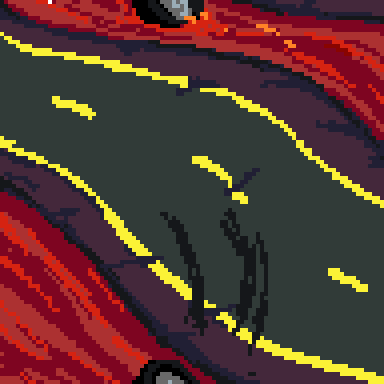
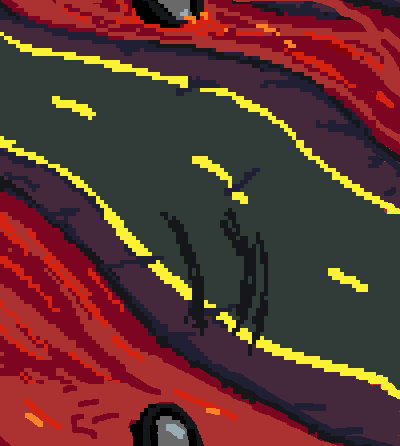
final

diff --git a/LvlOne.js b/LvlOne.js
@@ -83,13 +83,27 @@ class LvlOne extends Phaser.Scene{
         this.enemiesR.add(this.carro5);
         this.enemiesR.add(this.carro6);
         this.enemiesR.add(this.carro7);
-            /////########### fim inimigos
+        /////########### fim inimigos
 
-        this.player = this.physics.add.image(config.width/2, config.height - 38, "player");
+        //////####### jogador
+        this.player = this.physics.add.sprite(config.width/2, config.height - 38, "player");
         this.player.setOrigin(0.5,1);
-
         this.cursorKeys = this.input.keyboard.createCursorKeys();
         this.player.setCollideWorldBounds(true);
+            ////####### animaçao jogador
+            this.anims.create({
+                key:"pato_para",
+                frames: this.anims.generateFrameNumbers("player", { start: 0, end: 1 }),
+                frameRate: 2,
+                repeat: -1
+            });
+            this.anims.create({
+                key:"pato_morte",
+                frames: this.anims.generateFrameNumbers("player", { start: 4, end: 6 }),
+                frameRate: 2,
+                repeat: -1
+            });
+        this.player.play("pato_para");
 
         this.physics.add.overlap([this.enemies, this.enemiesR], this.player, function(enemies, player){
             this.player.disableBody(false,true);
@@ -163,7 +177,6 @@ class LvlOne extends Phaser.Scene{
 
     //######### movimento do jogador
     movePlayerManager(){
-
         this.checkGanhar();
         // movimento com delay de 250ms
         if(this.input.keyboard.checkDown(this.cursorKeys.up, 250)){

diff --git a/game.js b/game.js
@@ -3,18 +3,20 @@ var gameSettings = {
 	vidas: 3,
 	areaGanhar: 100,
 	playerSpeed: 38,
-	lanes: [154, (154+40*2), (154+38*4),(154+38*6) ],//, 200, 300, 400, 500],
-	lanes2: [(154+40), (154+38*3), (154+38*5)]//[150, 250, 350, 450]
+	lanes: [154, (154+40*2), (154+38*4),(154+38*6) ],
+	lanesR: [(154+40), (154+38*3), (154+38*5)]
 }
-
+///########funções para escolher estradinha
 function enemyRndPos(){
 	let randomY = Phaser.Math.RND.pick(gameSettings.lanes);
 	return randomY;
 }
 function enemyRndPosR(){
-	let randomY = Phaser.Math.RND.pick(gameSettings.lanes2);
+	let randomY = Phaser.Math.RND.pick(gameSettings.lanesR);
 	return randomY;
 }
+
+///########config parametros do phaser
 var config = {
 	width: 512,
 	height: 512,
@@ -29,7 +31,7 @@ var config = {
 	}
 }
 
-
+///##### inicio
 window.onload = function (){
 	var game = new Phaser.Game(config);
 }

diff --git a/Load.js b/Load.js
@@ -5,11 +5,13 @@ class Load extends Phaser.Scene{
 
     ///////######## carrega imagens e spritesheets
     preload(){
+        /////####### imagens de inicio e fim
         this.load.image("mapa", "assets/mapa.png")
+        this.load.image("bgfim", "assets/fim_bg.png");
         this.load.image("telaFim", "assets/fim01.png");
         this.load.image("bg","assets/bg.png");
 
-
+        /////#######spritesheets
         this.load.spritesheet("carrito", "assets/carrito_roxo.png", {
             frameWidth: 32,
             frameHeight: 32 

diff --git a/End.js b/End.js
@@ -4,15 +4,15 @@ class End extends Phaser.Scene{
     }
 
     create(){
-        this.bg = this.add.tileSprite(0,0, config.width, config.height, "bg");
+        this.bg = this.add.tileSprite(0,0, config.width, config.height, "bgfim");
         this.bg.setOrigin(0,0);
-
+        this.bg.setTileScale(16, 16);
         this.fim = this.add.image(config.width/2, config.height/2, "telaFim");
 
     }
 
     update(){
-        this.bg.tilePositionY -= 0.5;
+        this.bg.tilePositionY += 0.3;
     }
 
 }
